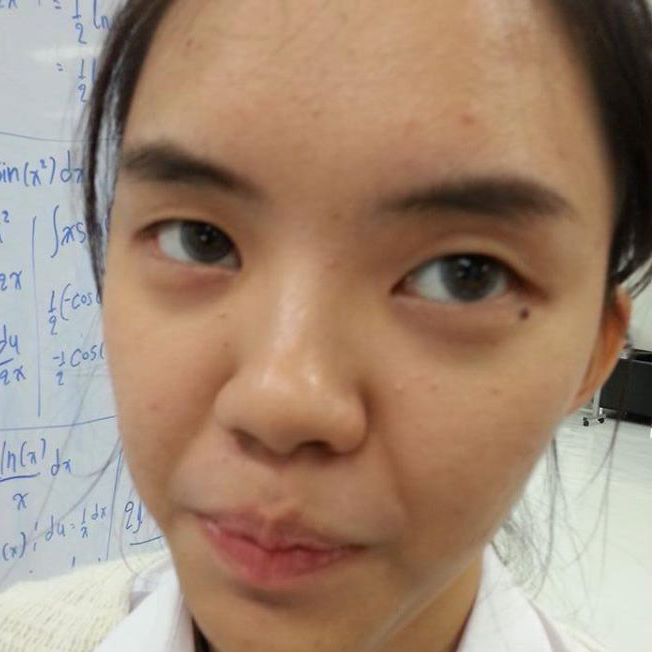
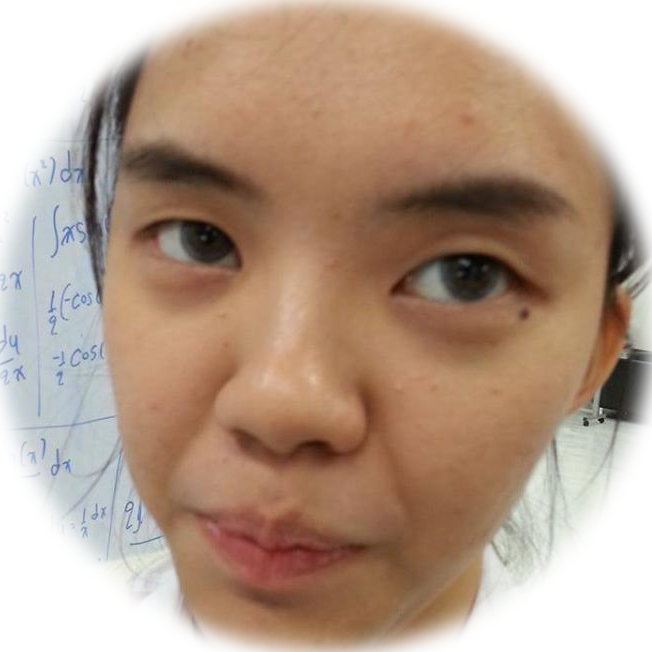
spriterender is now render alpha texture XD

Changed region(s): [[0.0, 0.0, 1.0, 1.0]]

diff --git a/Engine/Source/game.cpp b/Engine/Source/game.cpp
@@ -27,6 +27,7 @@ GLvoid Game::init()
     ResourceManager::LoadTexture("../Images/mimi1.png", GL_TRUE, "pawn1");
     ResourceManager::LoadTexture("../Images/mimi2.png", GL_TRUE, "pawn2");
     ResourceManager::LoadTexture("../Images/mimi3.png", GL_TRUE, "pawn3");
+    ResourceManager::LoadTexture("../Images/orange_detoure.png", GL_TRUE, "orange");
     // Configure shaders
     glm::mat4 projection = glm::ortho(0.0f, static_cast<GLfloat>(this->windowWidth), static_cast<GLfloat>(this->windowHeight), 0.0f, -1.0f, 1.0f);
     ResourceManager::GetShader("sprite").Use().SetMatrix4("projection", projection);
@@ -40,6 +41,7 @@ GLvoid Game::Render(GLfloat dt)
     Renderer->Draw(ResourceManager::GetTexture("pawn1") ,glm::vec2(35, 42), glm::vec2(100, 100), 0.0f, glm::vec3(1.0f, 1.0f, 1.0f));
     Renderer->Draw(ResourceManager::GetTexture("pawn3"), glm::vec2(535, 352), glm::vec2(100, 100), 0.0f, glm::vec3(1.0f, 1.0f, 1.0f));
     Renderer->Draw(ResourceManager::GetTexture("pawn1"), glm::vec2(145, 215), glm::vec2(100, 100), 0.0f, glm::vec3(1.0f, 1.0f, 1.0f));
+    Renderer->Draw(ResourceManager::GetTexture("orange"), glm::vec2(((this->windowWidth / 2) - 50), ((this->windowHeight / 2) - 50)), glm::vec2(100, 100), 0.0f, glm::vec3(1.0f, 1.0f, 1.0f));
     Renderer->Draw(ResourceManager::GetTexture("pawn3"), glm::vec2(685, 231), glm::vec2(100, 100), 0.0f, glm::vec3(1.0f, 1.0f, 1.0f));
     Renderer->Draw(ResourceManager::GetTexture("pawn2"), glm::vec2(456, 565), glm::vec2(100, 100), 0.0f, glm::vec3(1.0f, 1.0f, 1.0f));
     Renderer->Draw(ResourceManager::GetTexture("pawn2"), glm::vec2(875, 555), glm::vec2(100, 100), 0.0f, glm::vec3(1.0f, 1.0f, 1.0f));

diff --git a/Engine/Source/main.cpp b/Engine/Source/main.cpp
@@ -1,4 +1,5 @@
 #include "game.h"
+#include "resourcemanager.h"
 
 Game Hittheshapes(1024, 768);
 
@@ -17,7 +18,11 @@ int main()
     glewExperimental = GL_TRUE;
     glewInit();
 
+    // Configure OpenGL
     glViewport(0, 0, Hittheshapes.windowWidth, Hittheshapes.windowHeight);
+    glEnable(GL_CULL_FACE);
+    glEnable(GL_BLEND);
+    glBlendFunc(GL_SRC_ALPHA, GL_ONE_MINUS_SRC_ALPHA);
 
     // DeltaTime
     GLfloat currentFrame;
@@ -49,6 +54,7 @@ int main()
         glfwSwapBuffers(window);
     }
 
+    ResourceManager::Clear();
     glfwTerminate();
     return 0;
 }

diff --git a/Engine/Source/resourcemanager.cpp b/Engine/Source/resourcemanager.cpp
@@ -34,6 +34,7 @@ Texture2D ResourceManager::GetTexture(std::string name)
 GLvoid ResourceManager::Clear()
 {
     for (auto iter : Shaders) glDeleteProgram(iter.second.ID);
+    for (auto iter : Textures) glDeleteTextures(1, &iter.second.ID);
 }
 
 Shader ResourceManager::loadShaderFromFile(const GLchar *vShaderFile, const GLchar *vFragmentFile)
